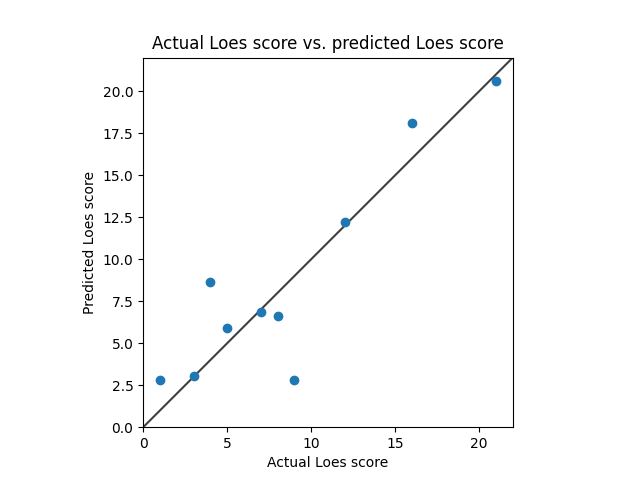
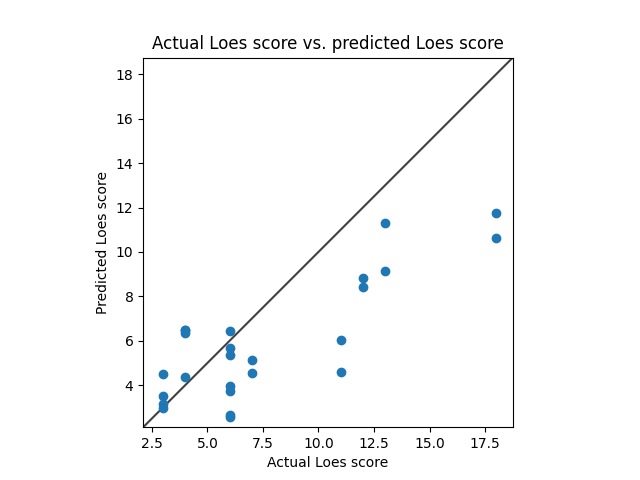
Model 1 recomputed with no data leakage.

diff --git a/src/dcan/training/training.py b/src/dcan/training/training.py
@@ -79,9 +79,6 @@ class LoesScoringTrainingApp:
         self.parser.add_argument('--csv-data-file',
                                  help="CSV data file.",
                                  )
-        self.parser.add_argument('--anatomical-region',
-                                 help="Anatomical region to train on.",
-                                 )
         self.parser.add_argument('--num-workers',
                                  help='Number of worker processes for background data loading',
                                  default=8,
@@ -125,6 +122,22 @@ class LoesScoringTrainingApp:
         self.parser.add_argument('--model',
                                  help="Model type.",
                                  default='AlexNet',
+                                 )
+        self.parser.add_argument("--include-ashish-data",
+                                 default=1,
+                                 type=int,
+                                 )
+        self.parser.add_argument("--ashish-gd",
+                                 default='*',
+                                 type=str,
+                                 )
+        self.parser.add_argument("--include-nascene-data",
+                                 default=0,
+                                 type=int,
+                                 )
+        self.parser.add_argument("--nascene-min-qc",
+                                 default=0,
+                                 type=int,
                                  )
         self.parser.add_argument('comment',
                                  help="Comment suffix for Tensorboard run.",
@@ -274,7 +287,14 @@ class LoesScoringTrainingApp:
 
         provenances = list(self.df.provenance.unique())
         for provenance in provenances:
+            if provenance == 'igor' and self.cli_args.include_ashish_data == 0:
+                continue
+            if provenance == 'nascene' and self.cli_args.include_nascene_data == 0:
+                continue
             provenance_df = self.df.loc[self.df['provenance'] == provenance]
+            if provenance == 'igor':
+                if self.cli_args.ashish_gd in [0, 1]:
+                    provenance_df = provenance_df.loc[provenance_df['Gd'] == self.cli_args.ashish_gd]
             subjects = list(provenance_df.subject.unique())
             train_size = round(len(subjects) * 0.8)
             provenance_train_subjects = random.sample(subjects, train_size)

diff --git a/doc/LoesScoreModels.md b/doc/LoesScoreModels.md
@@ -1,52 +1,10 @@
-# Model 3
-* Standardized RMSE: 0.5279896961137827
-![Model 3](./img/loes_scoring_03_128.png "Model 3")
-* correlation:    0.8928845104482298
-* p-value:        5.214448809117684e-08
-* standard error: 0.08727123644407582
-* SLURM script: *../src/dcan/training/loes-scoring-training_model03_mesabi.sh*
-* Model: */home/feczk001/shared/data/AlexNet/LoesScoring/loes_scoring_03_128.pt*
-* Epochs: 128 (256 epochs overfits)
-* batch-size: 1
-* Files: Chosen irrespective of Gd enhancement
-  * Igor's files: all (169 files)
-  * Nascene's files: only those with QC of 1 (36 files)
-
-# Model 4
-* Standardized RMSE: 1.0055314462612834
-![Model 4](./img/loes_scoring_04.png "Model 4")
-* correlation:    0.7923266209658204
-* p-value:        1.4078355863453417e-06
-* standard error: 1.4078355863453417e-06
-* SLURM script: *../src/dcan/training/loes-scoring-training_model04_mesabi.sh*
-* Model: */home/feczk001/shared/data/AlexNet/LoesScoring/loes_scoring_04.pt*
-* Epochs: 128
-* batch-size: 5
-* Files: Chosen irrespective of Gd enhancement
-  * Igor's files: all (169 files)
-  * Nascene's files: only those with QC of 1 or 2 (85 files)
-
 # Model 1
-* Standardized RMSE: 1.2942855794648784
-![Model 1](./img/model02_512.png "Model 0")
+* data: all of Ashish's data
+* Standardized RMSE: 1.206785682955434
+![Model 1](./img/model01.png "Model 0")
 * correlation:    0.8062695135102309
 * p-value:        0.015638673839783852
 * standard error: 0.11887297424632068
 * SLURM script: *../src/dcan/training/loes-scoring-training_model01_mesabi.sh*
 * Model: */home/feczk001/shared/data/AlexNet/LoesScoring/loes_scoring_02_512.pt*
-* Epochs: 512
-* File types: mprage.nii.gz
-
-# Model 2
-* Standardized RMSE: 0.8986175474134869
-![Model 2](./img/model02.png "Model 0")
-* correlation:    0.7734531513461287
-* p-value:        0.024352772949611835
-* standard error: 0.17330069759633573
-* SLURM script: *../src/dcan/training/loes-scoring-training_model02_mesabi.sh*
-* Model: */home/feczk001/shared/data/AlexNet/LoesScoring/loes_scoring_02.pt*
-* File types: mprageGd.nii.gz
-
-# Model 0
-* Standardized RMSE: 1.4090845846066016
-![Model 0](./img/model0.png "Model 0")
+* Epochs: 128
